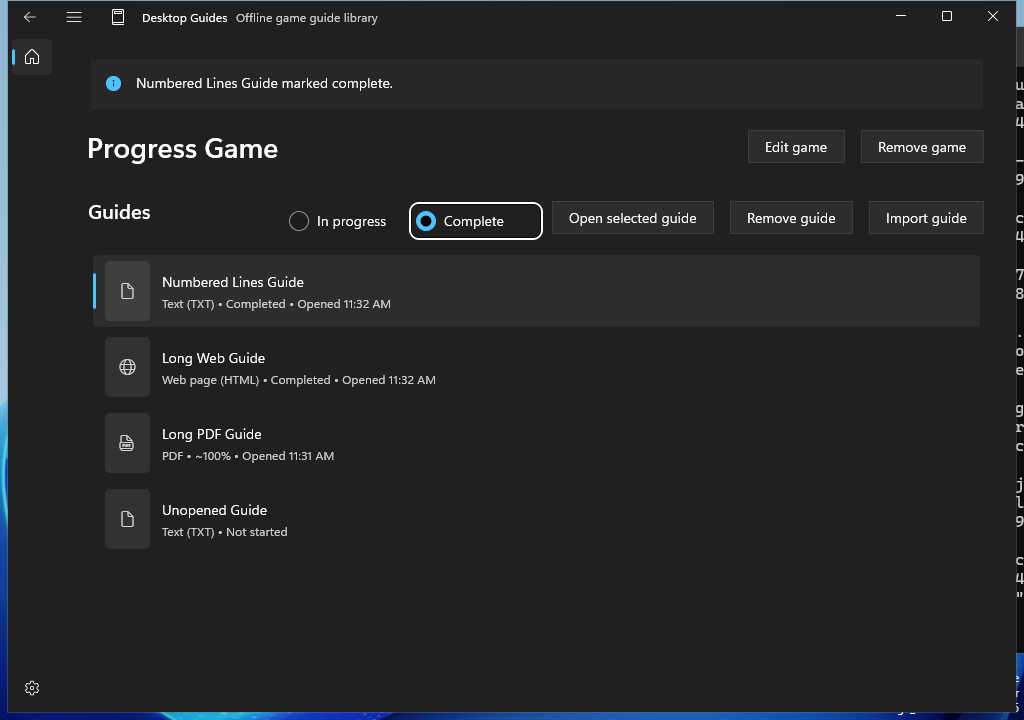
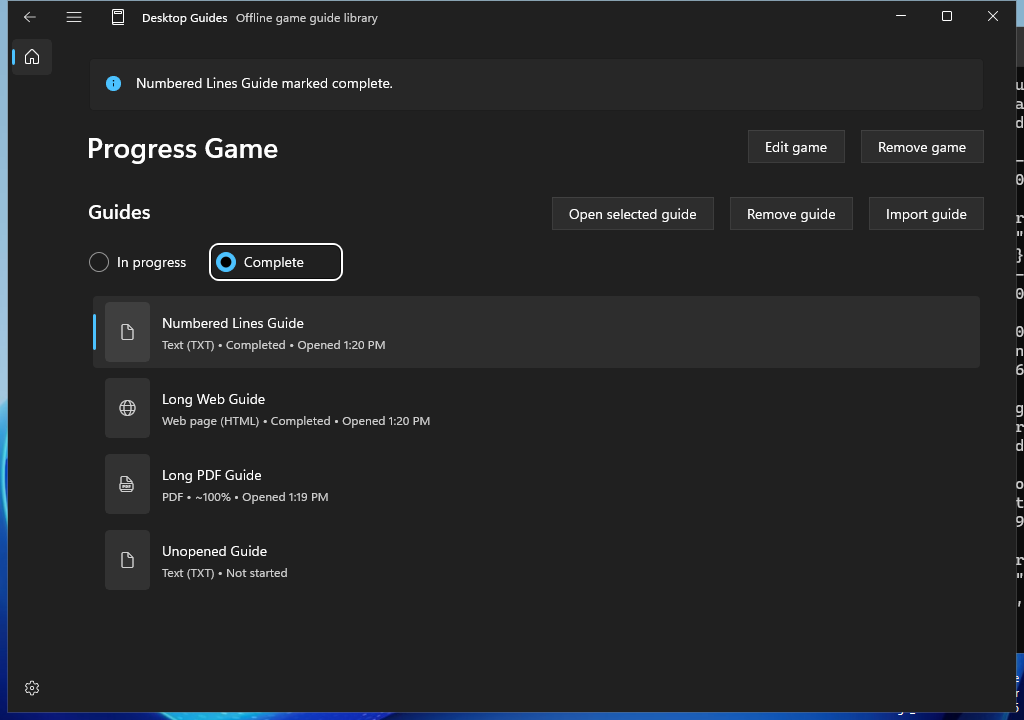
docs(p1): T13.1 record the Game choice row and refresh evidence
The spec, its implementation notes and the e2e row describe the choice's own row and the 768x519 check. Evidence comes from CI run 37315084947.

diff --git a/docs/p1/e2e-testing.md b/docs/p1/e2e-testing.md
@@ -267,7 +267,7 @@ production app. Add cases as the dependent P1 tasks complete.
 | TXT reader | Seed Text Reader Game with seven guides from fixtures: ASCII Map Guide (`txt-ascii`), Legacy Code Page Guide (`txt-legacy`, CP437), Long Text Guide (generated `txt-long`), Missing File Guide (its managed file deleted), Numbered Lines Guide (`txt-numbered`), Tab Table Guide (`txt-tabs`) and Web Page Guide (HTML). In light and dark: ASCII rows are named exactly as the fixture's lines, with blank lines named `Blank line`, and the 2,048-column line makes `ReaderTextLines` horizontally scrollable with no placeholder, and shows Go to start, Previous page, Next page and Go to end; Tab Table rows show 8-column tab stops and a form feed as a space; Legacy shows `Guide é`. Long Text shows its first row within 3 s, realizes at most 300 rows after opening and after eight large scroll steps, and has fewer than two `WM_NULL` responses over 500 ms and no timeouts; the numbers go to the result JSON. Missing File shows `This guide's file is missing from the library.` and no text or commands; Web Page shows the placeholder; reopening ASCII shows its rows again. In a separate shell, with the ASCII load held at the `TextLoad` test gate, Back reaches the Game page without waiting for the load; after the gate is released the status stays `Game ready.`, no text view appears, and reopening ASCII shows its rows. | T08.2, T08.3, TR08.1, TR08.2, TR11.3 |
 | TXT position | In light and dark, after the "Guide ready." status has closed (it takes rows from the reader while open), on Numbered Lines Guide: Next page moves the top line forward by at least one and at most the fully visible rows, a second Next page moves it the same amount again, and Previous page brings it back one page; Go to end shows `Line 0400`, Previous page then pages up from the real top line, and Go to start shows `Line 0001`. In a window about three rows tall, Go to end then Previous page; restoring the window clamps the top line, and shrinking it again shows the kept line. Signalling `Local\DesktopGuides.Preview.TextRemeasure.{pid}` grows only the hidden measuring probe to a 1.5x test font size, and the view re-measures on its own: rows grow 1.3-1.7x with the same top line, and on ASCII Map Guide the horizontal extent grows 1.3-1.7x. Reopening Numbered Lines Guide starts at `Line 0001` with normal row heights and pages again. On ASCII Map Guide in a window about three rows tall, scrolled 50% sideways: Next page, Go to start and restoring the window keep the sideways scroll within 1%. This is a regression guard; today's `ScrollIntoView` doesn't move the text sideways. Page step, visible rows, end top line and the two ratios go to the result JSON. | T08.3, TR08.3 |
 | Reading progress | A moved TXT guide is saved within 5 s and reopens at its line after the app is killed. Back saves a PDF page and fraction at once. 30 page turns make at most `floor(seconds / 4) + 1` saves. After a normal close, a TXT and an HTML guide reopen at their own places. An unreadable saved place opens at the start with a warning and keeps the stored place; a changed HTML guide opens near its place with an informational message. After a restart, moved guides' rows show their stored estimate and today's open time, and an unopened guide shows Not started, in light and dark. Changed TXT and PDF managed copies reopen at the saved line or page with the approximate message, and the fixture originals are unchanged. | T12.2, T12.3, TR12.1, TR12.2, TR12.3, TR05.2 |
-| Completion | `-CompletionOnly`, after `seed-progress`; nine modes in this order. `completion-segmented`: the choice is named `Completion for <title>`, its two `RadioButton` items are `In progress` and `Complete`, their `SelectionItem` state matches storage, and Right and Left change it with an announcement. `completion-last-page`: Go to end in a TXT guide and the last PDF page leave the rows on their estimates and `completedUtcMs` null. `completion-game` and `completion-reader`, in light and dark: from the keyboard on the Game page and in the Reader header, the row reads `Completed` and the result is announced; returning to in progress restores the exact row text captured before (estimate and open time). Afterwards Numbered Lines Guide has no stored completion time and Long Web Guide has one. `completion-restart` and `completion-restart-after`: the state survives two relaunches. `completion-error-prepare`, `completion-error`, `completion-error-retry`: the installer holds the write lock for 120 s, so the app's 30 s timeout fails first; the status shows the save-failure text, the choice reverts and nothing is stored; after the release the retry succeeds. Screenshots: `completion-game`, `completion-reader` (light, dark) and `completion-error`. | T13.1, TR13.1, TR13.2 |
+| Completion | `-CompletionOnly`, after `seed-progress`; nine modes in this order. `completion-segmented`: the choice is named `Completion for <title>`, its two `RadioButton` items are `In progress` and `Complete`, their `SelectionItem` state matches storage, and Right and Left change it with an announcement; at 768x519, *Import guide* isn't clipped and the guide list keeps 96 px. `completion-last-page`: Go to end in a TXT guide and the last PDF page leave the rows on their estimates and `completedUtcMs` null. `completion-game` and `completion-reader`, in light and dark: from the keyboard on the Game page and in the Reader header, the row reads `Completed` and the result is announced; returning to in progress restores the exact row text captured before (estimate and open time). Afterwards Numbered Lines Guide has no stored completion time and Long Web Guide has one. `completion-restart` and `completion-restart-after`: the state survives two relaunches. `completion-error-prepare`, `completion-error`, `completion-error-retry`: the installer holds the write lock for 120 s, so the app's 30 s timeout fails first; the status shows the save-failure text, the choice reverts and nothing is stored; after the release the retry succeeds. Screenshots: `completion-game`, `completion-reader` (light, dark) and `completion-error`. | T13.1, TR13.1, TR13.2 |
 | Game actions | Seed Linked Rename Game, provider-linked with artwork and the guides Alpha Route Guide (about 45%, opened yesterday) and Beta Route Guide, Empty Linked Game, provider-linked with artwork and no guides, and Guided Remove Game, provider-linked with artwork and two guides (Guided Walkthrough, TXT and the Resume guide; Guided Map Guide, HTML with an image). In light and dark: Guided Remove Game's Remove game opens `Remove Guided Remove Game and its 2 guides?` stating 3 managed files; Escape keeps both guides with focus on Remove game; Remove shows the Library with `Removed Guided Remove Game.`, no Resume and focus on Add game. Linked Rename Game shows Remove game enabled; renaming it to Renamed Linked Game keeps Beta selected, focus on Edit game and the summary, and its Library facts are unchanged. With the Library filtered to `Empty`, Empty Linked Game's Remove game opens `Remove Empty Linked Game?`; Escape and Enter cancel with focus back on Remove game; Remove shows the Library with `Removed Empty Linked Game.`, the `Empty` query kept and its no-results view, focus on Add game and Back disabled. `describe-actions` finds one game with its original ID, artwork, Guide IDs, reading state and Resume, and no artwork folder for the removed game, and no rows, content, artwork, trash entries or file operations for Guided Remove Game. After a relaunch, Guided Remove Game is still gone, Resume opens Beta under the new name, Back keeps Beta selected, Alpha still reads about 45 percent, and no non-loopback TCP connection is made. | T04.2, T04.3, TR03.1, TR04.1, TR04.2, TR04.3, TR11.3 |
 | Import preview | From a seeded game, Import guide opens the system Open dialog; the smoke enters each fixture path in its File name box and presses Open. In light and dark: `txt-legacy` shows its title, format, file name and both encodings, and CP437 shows its sample; `html-static` shows details under a native heading; `html-hostile` shows details and warnings in headered groups; `pdf-locked` shows the password-protected message; Close and picker Cancel return focus to Import guide. Afterwards no guide, file operation, or staged or managed file exists. | T06.1, T06.2, TR06.1, TR11.3 |
 | Import publication | From a seeded game, pick `txt-legacy` and check Import stays disabled until CP437 is chosen. Enter a unique title and press Import. In light, the dialog closes and the Game page lists the new guide selected and focused. With the Library filtered to `Import Test`, Back after the import keeps the query and focuses the Import Test Game row. Afterwards the library has one CP437 guide, one content directory per guide, and no file operation or staging entry. | T06.3, T05.3, TR06.2, TR06.3, TR11.3 |

diff --git a/docs/p1/t13-1-completion-actions-design.md b/docs/p1/t13-1-completion-actions-design.md
@@ -1,7 +1,8 @@
 # T13.1 completion actions design
 
 Status: implemented with the native `RadioButtons` fallback; CI run
-37302867776 passed `shell-scope=completion` and the full matrix.
+37315084947 passed `shell-scope=completion` and the full matrix, and PR
+#44's run 37311359432 passed `shell-scope=all`.
 Prerequisites: T05.1 (Library and Game rows, PR #23), T11.3 (the Reader
 shell, PR #7), and T13.2 (the completion service, PR #42, merge commit
 `0807d5a`) are merged.
@@ -110,8 +111,10 @@ the version of the other Toolkit pins. It goes in
 
 ### Placement
 
-- **Game page.** The choice goes in a new `Auto` column of
-  `GameGuidesHeader`, before *Open selected guide*. It shows when a guide
+- **Game page.** The choice goes on its own row of `GameGuidesHeader`,
+  under "Guides" and the header actions, and follows them in tab order.
+  (An `Auto` column before *Open selected guide* was the first placement;
+  see the implementation notes.) It shows when a guide
   of this game is selected, under the rule `UpdateOpenSelectedGuideAction`
   uses, and is hidden otherwise. It shows the selected guide's committed
   state. `GuideRowItem` keeps the summary's `CompletedUtc` for this. No row
@@ -254,6 +257,15 @@ In the implementing branch:
   The likely cause, not verified, is that `SegmentedItem`s declared in XAML
   are their own containers and get no data-item peer. An `ItemsSource`-bound
   `Segmented` wasn't tried; T14.2 can test it before choosing its control.
+- **The Game choice moved to its own row.** The first placement, an `Auto`
+  column before *Open selected guide*, passed the `completion` group in a
+  1024 px window but failed PR #44's `shell-scope=all` run, which uses the
+  768x519 launch size: "Guides", the choice and the three actions
+  overflowed one row, *Import guide* was clipped, and the taller header
+  left the guide list one row, so `queue-later-guide` couldn't select its
+  second guide. `GameGuidesHeader` is now a `StackPanel` holding the
+  actions row and then the choice, and `completion-segmented` checks the
+  header at 768x519.
 - The plan's rulings against this design:
   1. Focus is restored after the Game render. `RenderCurrentAsync`
      collapses the Game panel, which drops focus, so after a Game-page
@@ -281,12 +293,13 @@ In the implementing branch:
 - `GuideCompletionPresentationTests` (Core, 9 tests): the labels, both
   states from a null or stored time, the choice name, both announcements,
   the save-failure and removed text, and a long Unicode title kept verbatim.
-- Installed `completion` group, CI run 37302205371 (`dev-fast`) and run
-  37302867776 (full):
+- Installed `completion` group, CI run 37311355614 (`dev-fast`) and run
+  37315084947 (full), after the Game choice moved to its own row:
   - `completion-segmented`: the choice is named `Completion for Numbered
-    Lines Guide`; two `RadioButton`s with their names; Shift+Tab from *Open
-    selected guide* focuses `In progress`; Right selects and announces
-    `Complete`, Left returns to `In progress`.
+    Lines Guide`; two `RadioButton`s with their names; Tab from *Import
+    guide* focuses `In progress`; Right selects and announces `Complete`,
+    Left returns to `In progress`. At 768x519, *Import guide* keeps its
+    wide-window width and the guide list keeps its 96 px minimum.
   - `completion-last-page`: after Go to end in Numbered Lines Guide and on
     page 200 of the PDF, the rows show estimates (the PDF `~100%`), not
     `Completed`; `completedUtcMs` stays null and the choice shows
@@ -308,8 +321,13 @@ In the implementing branch:
     retry succeeds.
 - Screenshots and results are in
   [evidence/t13-1-completion-actions](evidence/t13-1-completion-actions/).
-- CI run 37302867776 (`shell-scope=completion`, the full matrix) passed
+- The narrow-window check failed before the move, in CI run 37310722161:
+  *Import guide* was 43 px wide at 768x519 against 115 px in a wide window.
+  After the move, run 37311355614 measured 115 px and a 193 px guide list.
+- CI run 37315084947 (`shell-scope=completion`, the full matrix) passed
   every job, including ARM64, packages, `production-shell-ui` and
-  `reader-toolbar-ui`: Core.Tests 737, Infrastructure.Tests 528. CI run
-  37302882954 (`shell-scope=progress`, the full matrix) passed, covering the
-  shared `Wait-Status` and lock-helper changes.
+  `reader-toolbar-ui`: Core.Tests 737, Infrastructure.Tests 528. PR #44's
+  run 37311359432 (`shell-scope=all`) passed every job, including
+  `queue-later-guide`. CI run 37302882954 (`shell-scope=progress`, the full
+  matrix, before the move) passed, covering the shared `Wait-Status` and
+  lock-helper changes.
